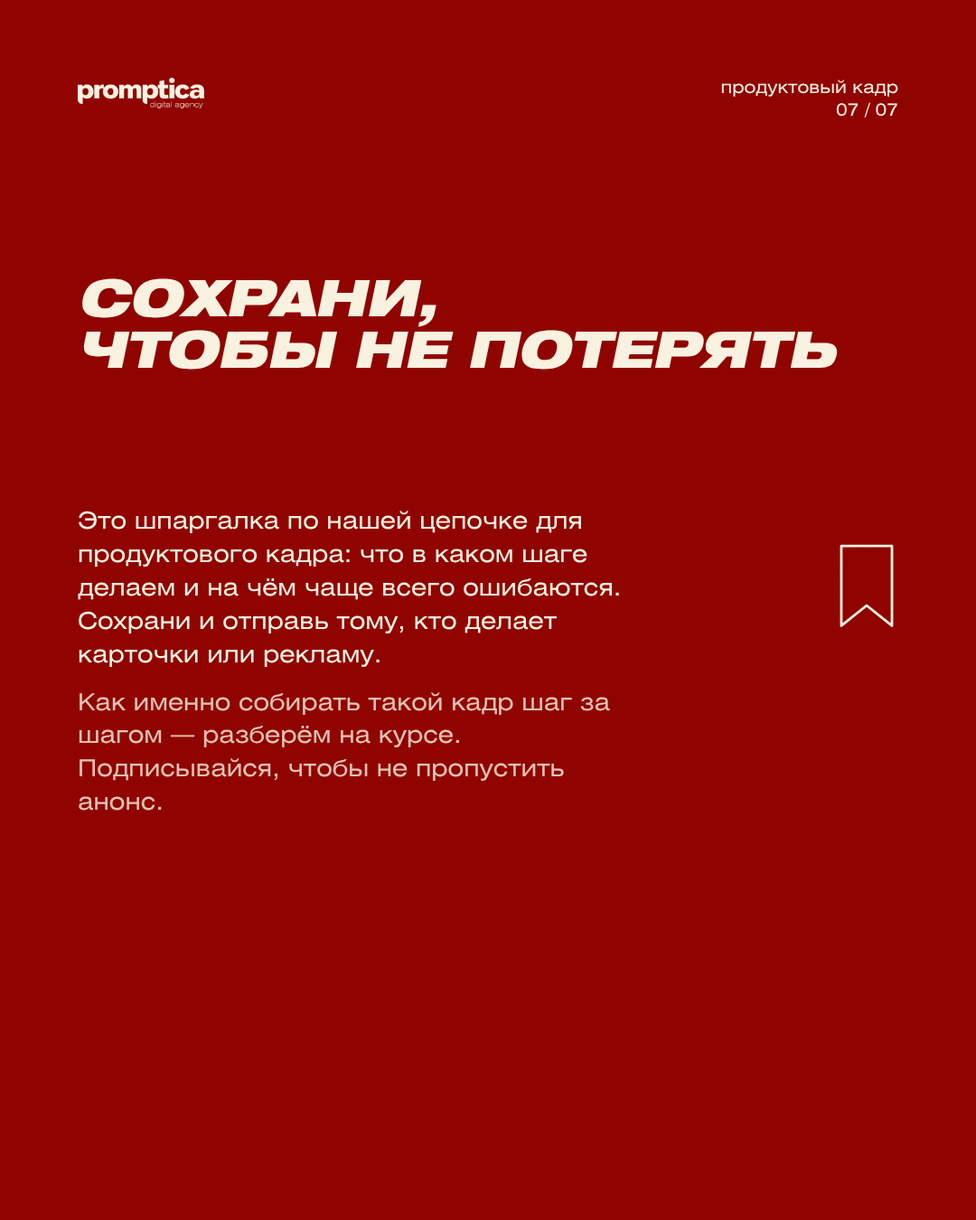
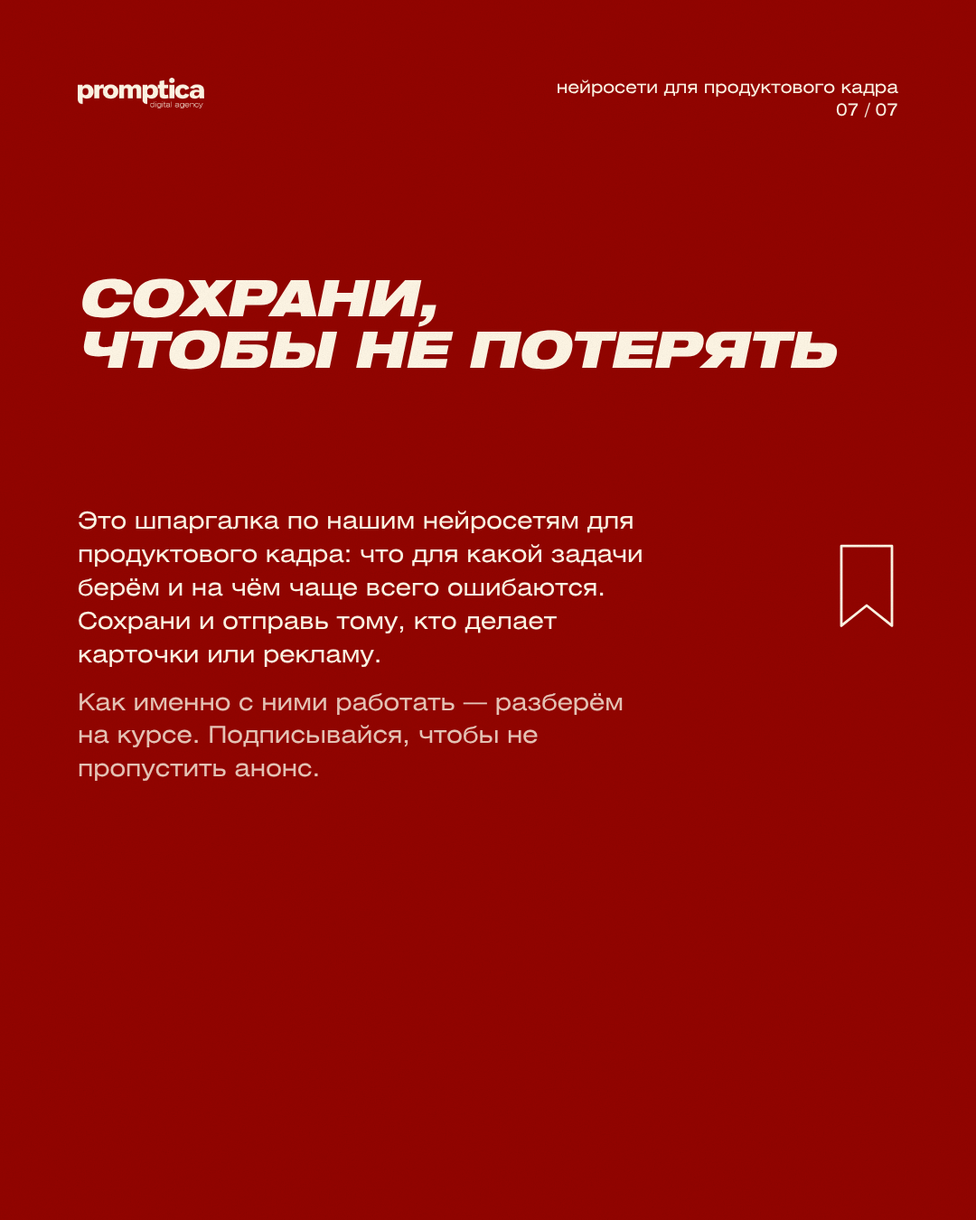
«Нейросети для продуктового кадра»: логика «задача → инструмент» вместо цепочки шагов
Claude-Session: https://claude.ai/code/session_01V1NUh11xrVMcB1cs4GV2qz

diff --git a/carousels/promptica-product-shot/04.html b/carousels/promptica-product-shot/04.html
@@ -2,16 +2,16 @@
 <html lang="ru">
 <head>
   <meta charset="UTF-8">
-  <title>Продуктовый кадр — 04</title>
+  <title>Нейросети для продуктового кадра — 04</title>
   <link rel="stylesheet" href="style.css">
 </head>
 <body>
   <div class="slide ">
-    <div class="photos top"><div class="ph"><div class="hint">референс</div><img src="img/04-before.jpg" alt="" onerror="this.remove()"><div class="c">до</div></div><div class="ph"><div class="hint">базовый кадр без продукта</div><img src="img/04-after.jpg" alt="" onerror="this.remove()"><div class="c">после</div></div></div>
-    <div class="tool" style="top:820px"><div class="n">[03]</div><h2>Nano Banana</h2><div class="r">базовый кадр</div></div>
-    <div class="txt" style="top:820px"><p>Сцену и фон под продукт собираем в Nano Banana: он принимает сразу несколько референсов и достраивает окружение по ним.</p><p>Слабое место — кожа и материалы: без подсказки легко получается гладкий результат, который выдаёт нейросеть.</p><div class="tip">Заранее решите, какой материал должен читаться в кадре, и проверяйте его крупным планом.</div></div>
+    <div class="photos top"><div class="ph"><div class="hint">пример: сцена вокруг продукта</div><img src="img/04-a.jpg" alt="" onerror="this.remove()"></div><div class="ph"><div class="hint">пример: смена фона</div><img src="img/04-b.jpg" alt="" onerror="this.remove()"></div></div>
+    <div class="tool" style="top:820px"><div class="n">сцена и фон</div><h2>Nano Banana</h2></div>
+    <div class="txt" style="top:820px"><p>Когда нужно достроить сцену или сменить фон вокруг продукта, идём в Nano Banana: он принимает сразу несколько референсов и достраивает окружение по ним.</p><p>Слабое место — кожа и материалы: без подсказки получается гладкий результат, который выдаёт нейросеть.</p><div class="tip">Заранее решите, какой материал должен читаться в кадре, и проверяйте его крупным планом.</div></div>
     <div class="topscrim"></div>
-    <div class="head on-photo"><img src="../../assets/logo_cream.png" alt="promptica"><div class="meta">продуктовый кадр<br>04 / 07</div></div>
+    <div class="head on-photo"><img src="../../assets/logo_cream.png" alt="promptica"><div class="meta">нейросети для продуктового кадра<br>04 / 07</div></div>
     <svg class="grain"><filter id="g"><feTurbulence type="fractalNoise" baseFrequency=".9" numOctaves="3" seed="4" stitchTiles="stitch"/><feColorMatrix type="saturate" values="0"/></filter><rect width="100%" height="100%" filter="url(#g)"/></svg>
   </div>
 </body>

diff --git a/carousels/promptica-product-shot/06.html b/carousels/promptica-product-shot/06.html
@@ -2,16 +2,16 @@
 <html lang="ru">
 <head>
   <meta charset="UTF-8">
-  <title>Продуктовый кадр — 06</title>
+  <title>Нейросети для продуктового кадра — 06</title>
   <link rel="stylesheet" href="style.css">
 </head>
 <body>
   <div class="slide ">
-    <div class="photos top"><div class="ph"><div class="hint">низкое разрешение</div><img src="img/06-before.jpg" alt="" onerror="this.remove()"><div class="c">до</div></div><div class="ph"><div class="hint">резкий кадр без артефактов</div><img src="img/06-after.jpg" alt="" onerror="this.remove()"><div class="c">после</div></div></div>
-    <div class="tool" style="top:820px"><div class="n">[05]</div><h2>Topaz</h2><div class="r">апскейл</div></div>
-    <div class="txt" style="top:820px"><p>Topaz — финальный шаг: увеличиваем разрешение, чтобы кадр выдержал карточку маркетплейса и печать.</p><p>Если переборщить, резкость становится «пересвеченной»: кожа и фактуры выглядят как ретушь нейросети.</p><div class="tip">Увеличивайте умеренно и сравнивайте с исходником на 100%: должны быть видны детали, а не обработка.</div></div>
+    <div class="photos top"><div class="ph"><div class="hint">пример: исходный кадр</div><img src="img/06-a.jpg" alt="" onerror="this.remove()"></div><div class="ph"><div class="hint">пример: после увеличения</div><img src="img/06-b.jpg" alt="" onerror="this.remove()"></div></div>
+    <div class="tool" style="top:820px"><div class="n">качество и разрешение</div><h2>Topaz</h2></div>
+    <div class="txt" style="top:820px"><p>Topaz берём, когда готовый кадр нужно сделать крупнее и чётче — для карточки маркетплейса или печати.</p><p>Перестараться легко: резкость становится «пересвеченной», а кожа и фактуры выглядят как ретушь нейросети.</p><div class="tip">Увеличивайте умеренно и сравнивайте с исходником на 100%: должны быть видны детали, а не обработка.</div></div>
     <div class="topscrim"></div>
-    <div class="head on-photo"><img src="../../assets/logo_cream.png" alt="promptica"><div class="meta">продуктовый кадр<br>06 / 07</div></div>
+    <div class="head on-photo"><img src="../../assets/logo_cream.png" alt="promptica"><div class="meta">нейросети для продуктового кадра<br>06 / 07</div></div>
     <svg class="grain"><filter id="g"><feTurbulence type="fractalNoise" baseFrequency=".9" numOctaves="3" seed="6" stitchTiles="stitch"/><feColorMatrix type="saturate" values="0"/></filter><rect width="100%" height="100%" filter="url(#g)"/></svg>
   </div>
 </body>

diff --git a/carousels/promptica-product-shot/05.html b/carousels/promptica-product-shot/05.html
@@ -2,16 +2,16 @@
 <html lang="ru">
 <head>
   <meta charset="UTF-8">
-  <title>Продуктовый кадр — 05</title>
+  <title>Нейросети для продуктового кадра — 05</title>
   <link rel="stylesheet" href="style.css">
 </head>
 <body>
   <div class="slide ">
-    <div class="photos bottom"><div class="ph"><div class="hint">продукт отдельно</div><img src="img/05-before.jpg" alt="" onerror="this.remove()"><div class="c">до</div></div><div class="ph"><div class="hint">продукт в сцене</div><img src="img/05-after.jpg" alt="" onerror="this.remove()"><div class="c">после</div></div></div>
-    <div class="tool" style="top:215px"><div class="n">[04]</div><h2>Nano Banana</h2><div class="r">продукт без искажений</div></div>
-    <div class="txt" style="top:215px"><p>Настоящий продукт переносим в сцену тоже в нём: по фото упаковки он сохраняет форму и цвет, а сцена остаётся нетронутой.</p><p>Мелкий текст и логотипы он иногда перерисовывает — на упаковке это видно первым делом.</p><div class="tip">Сверяйте этикетку с оригиналом: если буквы поплыли, дорисовывайте текст в редакторе.</div></div>
+    <div class="photos bottom"><div class="ph"><div class="hint">пример: продукт отдельно</div><img src="img/05-a.jpg" alt="" onerror="this.remove()"></div><div class="ph"><div class="hint">пример: продукт в сцене</div><img src="img/05-b.jpg" alt="" onerror="this.remove()"></div></div>
+    <div class="tool" style="top:215px"><div class="n">продукт в кадре</div><h2>Nano Banana</h2></div>
+    <div class="txt" style="top:215px"><p>Для переноса настоящего продукта в готовую сцену тоже подходит Nano Banana: по фото упаковки он сохраняет форму и цвет.</p><p>Мелкий текст и логотипы он иногда перерисовывает — на упаковке это видно первым делом.</p><div class="tip">Сверяйте этикетку с оригиналом: если буквы поплыли, дорисовывайте текст в редакторе.</div></div>
     
-    <div class="head"><img src="../../assets/logo_black.png" alt="promptica"><div class="meta">продуктовый кадр<br>05 / 07</div></div>
+    <div class="head"><img src="../../assets/logo_black.png" alt="promptica"><div class="meta">нейросети для продуктового кадра<br>05 / 07</div></div>
     <svg class="grain"><filter id="g"><feTurbulence type="fractalNoise" baseFrequency=".9" numOctaves="3" seed="5" stitchTiles="stitch"/><feColorMatrix type="saturate" values="0"/></filter><rect width="100%" height="100%" filter="url(#g)"/></svg>
   </div>
 </body>

diff --git a/carousels/promptica-product-shot/03.html b/carousels/promptica-product-shot/03.html
@@ -2,16 +2,16 @@
 <html lang="ru">
 <head>
   <meta charset="UTF-8">
-  <title>Продуктовый кадр — 03</title>
+  <title>Нейросети для продуктового кадра — 03</title>
   <link rel="stylesheet" href="style.css">
 </head>
 <body>
   <div class="slide ">
-    <div class="photos bottom"><div class="ph"><div class="hint">референс сцены</div><img src="img/03-before.jpg" alt="" onerror="this.remove()"></div><div class="ph"><div class="hint">референс света</div><img src="img/03-after.jpg" alt="" onerror="this.remove()"></div></div>
-    <div class="tool" style="top:215px"><div class="n">[02]</div><h2>Midjourney</h2><div class="r">идея и референс</div></div>
-    <div class="txt" style="top:215px"><p>В Midjourney рождается настроение кадра: подбираем свет, композицию и цветовую среду, пока ещё нет ни продукта, ни финального сюжета.</p><p>Он силён в эстетике, но плохо слушается буквальных инструкций: надписи и точные детали упаковки — не его территория.</p><div class="tip">Берите отсюда референс сцены, а не готовый кадр.</div></div>
+    <div class="photos bottom"><div class="ph"><div class="hint">пример: референс настроения</div><img src="img/03-a.jpg" alt="" onerror="this.remove()"></div><div class="ph"><div class="hint">пример: референс света</div><img src="img/03-b.jpg" alt="" onerror="this.remove()"></div></div>
+    <div class="tool" style="top:215px"><div class="n">идеи и референсы</div><h2>Midjourney</h2></div>
+    <div class="txt" style="top:215px"><p>Midjourney берём, когда нужно найти настроение: свет, композицию, цветовую среду.</p><p>Он силён в эстетике, но плохо слушается буквальных инструкций: надписи и точные детали упаковки — не его территория.</p><div class="tip">Используйте его как источник референсов, а не как готовый кадр.</div></div>
     
-    <div class="head"><img src="../../assets/logo_black.png" alt="promptica"><div class="meta">продуктовый кадр<br>03 / 07</div></div>
+    <div class="head"><img src="../../assets/logo_black.png" alt="promptica"><div class="meta">нейросети для продуктового кадра<br>03 / 07</div></div>
     <svg class="grain"><filter id="g"><feTurbulence type="fractalNoise" baseFrequency=".9" numOctaves="3" seed="3" stitchTiles="stitch"/><feColorMatrix type="saturate" values="0"/></filter><rect width="100%" height="100%" filter="url(#g)"/></svg>
   </div>
 </body>

diff --git a/carousels/promptica-product-shot/02.html b/carousels/promptica-product-shot/02.html
@@ -2,16 +2,16 @@
 <html lang="ru">
 <head>
   <meta charset="UTF-8">
-  <title>Продуктовый кадр — 02</title>
+  <title>Нейросети для продуктового кадра — 02</title>
   <link rel="stylesheet" href="style.css">
 </head>
 <body>
   <div class="slide ">
-    <div class="photos top"><div class="ph"><div class="hint">кадр с «AI-пластиком»</div><img src="img/02-before.jpg" alt="" onerror="this.remove()"><div class="c">до</div></div><div class="ph"><div class="hint">тот же кадр с живой фактурой</div><img src="img/02-after.jpg" alt="" onerror="this.remove()"><div class="c">после</div></div></div>
-    <div class="tool" style="top:820px"><div class="n">[01]</div><h2>Seedream</h2><div class="r">реализм для креативов</div></div>
+    <div class="photos top"><div class="ph"><div class="hint">пример: реалистичный креатив</div><img src="img/02-a.jpg" alt="" onerror="this.remove()"></div><div class="ph"><div class="hint">пример: реалистичный креатив</div><img src="img/02-b.jpg" alt="" onerror="this.remove()"></div></div>
+    <div class="tool" style="top:820px"><div class="n">реалистичные креативы</div><h2>Seedream</h2></div>
     <div class="txt" style="top:820px"><p>Для реалистичных креативов чаще всего берём Seedream: он уверенно держит фактуру кожи и ткани, поэтому нужный кадр нередко получается с одной-двух генераций.</p><p>Но с людьми есть нюанс: по умолчанию он тянется к азиатской, чаще корейской внешности.</p><div class="tip">Не оставляйте внешность на волю модели: сразу чётко описывайте героя.</div></div>
     <div class="topscrim"></div>
-    <div class="head on-photo"><img src="../../assets/logo_cream.png" alt="promptica"><div class="meta">продуктовый кадр<br>02 / 07</div></div>
+    <div class="head on-photo"><img src="../../assets/logo_cream.png" alt="promptica"><div class="meta">нейросети для продуктового кадра<br>02 / 07</div></div>
     <svg class="grain"><filter id="g"><feTurbulence type="fractalNoise" baseFrequency=".9" numOctaves="3" seed="2" stitchTiles="stitch"/><feColorMatrix type="saturate" values="0"/></filter><rect width="100%" height="100%" filter="url(#g)"/></svg>
   </div>
 </body>

diff --git a/carousels/promptica-product-shot/07.html b/carousels/promptica-product-shot/07.html
@@ -2,16 +2,16 @@
 <html lang="ru">
 <head>
   <meta charset="UTF-8">
-  <title>Продуктовый кадр — 07</title>
+  <title>Нейросети для продуктового кадра — 07</title>
   <link rel="stylesheet" href="style.css">
 </head>
 <body>
   <div class="slide red">
     <div class="tool" style="top:300px;width:900px"><h2 style="font-size:56px;line-height:1.02">Сохрани,<br>чтобы не потерять</h2></div>
     <svg viewBox="0 0 100 140" style="position:absolute;right:86px;top:600px;width:70px"><path d="M10 6 H90 V132 L50 100 L10 132 Z" fill="none" stroke="#fff7e6" stroke-width="4" stroke-linejoin="round"/></svg>
-    <div class="txt" style="left:86px;top:560px;width:640px;font-size:26px"><p>Это шпаргалка по нашей цепочке для продуктового кадра: что в каком шаге делаем и на чём чаще всего ошибаются. Сохрани и отправь тому, кто делает карточки или рекламу.</p><p style="opacity:.8">Как именно собирать такой кадр шаг за шагом — разберём на курсе. Подписывайся, чтобы не пропустить анонс.</p></div>
+    <div class="txt" style="left:86px;top:560px;width:640px;font-size:26px"><p>Это шпаргалка по нашим нейросетям для продуктового кадра: что для какой задачи берём и на чём чаще всего ошибаются. Сохрани и отправь тому, кто делает карточки или рекламу.</p><p style="opacity:.8">Как именно с ними работать — разберём на курсе. Подписывайся, чтобы не пропустить анонс.</p></div>
     
-    <div class="head"><img src="../../assets/logo_cream.png" alt="promptica"><div class="meta">продуктовый кадр<br>07 / 07</div></div>
+    <div class="head"><img src="../../assets/logo_cream.png" alt="promptica"><div class="meta">нейросети для продуктового кадра<br>07 / 07</div></div>
     <svg class="grain"><filter id="g"><feTurbulence type="fractalNoise" baseFrequency=".9" numOctaves="3" seed="7" stitchTiles="stitch"/><feColorMatrix type="saturate" values="0"/></filter><rect width="100%" height="100%" filter="url(#g)"/></svg>
   </div>
 </body>

diff --git a/carousels/promptica-product-shot/01.html b/carousels/promptica-product-shot/01.html
@@ -2,17 +2,17 @@
 <html lang="ru">
 <head>
   <meta charset="UTF-8">
-  <title>Продуктовый кадр — 01</title>
+  <title>Нейросети для продуктового кадра — 01</title>
   <link rel="stylesheet" href="style.css">
 </head>
 <body>
   <div class="slide ">
-    <div class="photos top"><div class="ph"><div class="hint">главный готовый кадр</div><img src="img/01-after.jpg" alt="" onerror="this.remove()"></div></div>
-    <div class="tool" style="top:830px;width:880px"><h2 style="font-size:54px;line-height:1">Как мы собираем<br>продуктовый кадр</h2></div>
-    <div class="txt" style="left:86px;top:1000px;width:800px;font-size:24px"><p>Продуктовый кадр у нас рождается не в одной нейросети, а по цепочке из пяти шагов: у каждой своя роль.</p><p>Дальше по порядку: что в каждой делаем, где она подводит и что с этим делать.</p></div>
+    <div class="photos top"><div class="ph"><div class="hint">пример кадра</div><img src="img/01-a.jpg" alt="" onerror="this.remove()"></div></div>
+    <div class="tool" style="top:830px;width:900px"><h2 style="font-size:54px;line-height:1">Нейросети для<br>продуктового кадра</h2></div>
+    <div class="txt" style="left:86px;top:1000px;width:800px;font-size:24px"><p>Единого рецепта нет: под разные задачи мы берём разные нейросети.</p><p>Рассказываем, какие используем, для чего каждая и на что стоит обратить внимание.</p></div>
     <div class="swipe">листай →</div>
     <div class="topscrim"></div>
-    <div class="head on-photo"><img src="../../assets/logo_cream.png" alt="promptica"><div class="meta">продуктовый кадр<br>01 / 07</div></div>
+    <div class="head on-photo"><img src="../../assets/logo_cream.png" alt="promptica"><div class="meta">нейросети для продуктового кадра<br>01 / 07</div></div>
     <svg class="grain"><filter id="g"><feTurbulence type="fractalNoise" baseFrequency=".9" numOctaves="3" seed="1" stitchTiles="stitch"/><feColorMatrix type="saturate" values="0"/></filter><rect width="100%" height="100%" filter="url(#g)"/></svg>
   </div>
 </body>

diff --git a/carousels/promptica-product-shot/style.css b/carousels/promptica-product-shot/style.css
@@ -26,7 +26,7 @@ html, body { width: 1080px; height: 1350px; overflow: hidden; }
 
 /* текст */
 .tool { position: absolute; left: var(--m); width: 290px; }
-.tool .n { font-size: 18px; letter-spacing: .06em; color: var(--red); margin-bottom: 14px; }
+.tool .n { font-size: 19px; line-height: 1.25; color: var(--red); margin-bottom: 14px; }
 .tool h2 { font-family: 'HN Black Ext', sans-serif; text-transform: uppercase; font-size: 30px; line-height: 1.02; letter-spacing: -0.01em; }
 .tool .r { margin-top: 12px; font-size: 20px; opacity: .7; }
 .txt { position: absolute; left: 420px; width: 574px; font-size: 22px; line-height: 1.42; }
